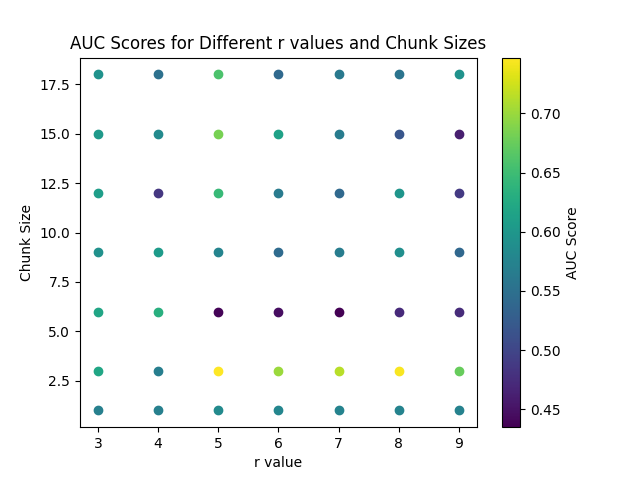
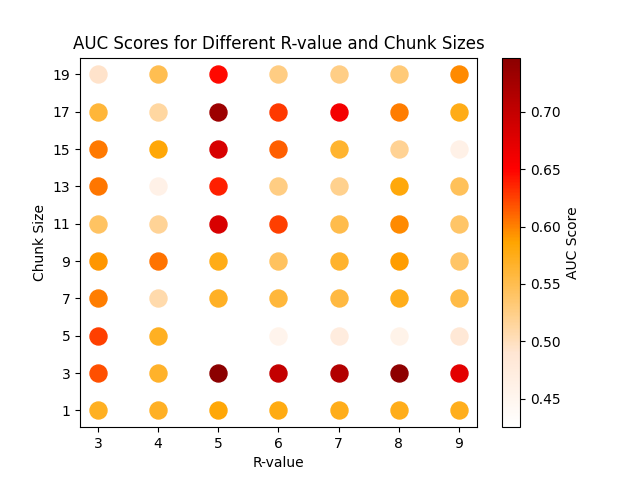
push

diff --git a/utils.py b/utils.py
@@ -52,7 +52,7 @@ def compute_roc_auc(labels, scores):
 def plot_roc(fpr, tpr, roc_auc, r_value, additional_title=""):
     plt.figure()
     plt.plot(
-        fpr, tpr, color="darkorange", lw=2, label=f"ROC curve (area = {roc_auc:.2f})"
+        fpr, tpr, color="darkorange", lw=2, label=f"ROC curve (AUC = {roc_auc:.2f})"
     )
     plt.plot([0, 1], [0, 1], color="navy", lw=2, linestyle="--")
     plt.xlim([0.0, 1.0])
@@ -60,7 +60,7 @@ def plot_roc(fpr, tpr, roc_auc, r_value, additional_title=""):
     plt.xlabel("False Positive Rate")
     plt.ylabel("True Positive Rate")
 
-    title = f"Receiver Operating Characteristic for r = {r_value} {additional_title}".strip()
+    title = f"ROC Curve with R-Value = {r_value} {additional_title}".strip()
     plt.title(title)
     plt.legend(loc="lower right")
 
@@ -111,11 +111,16 @@ def analyze_language_data():
     english_test_file = "english.test"
     tagalog_test_file = "tagalog.test"
     test_data, labels = load_test_data_and_labels(english_test_file, tagalog_test_file)
+    data_sets = []
 
     for r in range(1, 10):
         scores = get_scores_from_java_program(test_data, r, cache_name="language_analysis")
         fpr, tpr, roc_auc = compute_roc_auc(labels, scores)
         plot_roc(fpr, tpr, roc_auc, r)
+        data_sets.append((fpr, tpr, roc_auc, r, f"r={r}"))
+        
+    if data_sets:
+        generate_combined_roc_curves(data_sets, "Different R-values (1 to 9) on English vs. Tagalog")
 
 
 
@@ -155,14 +160,14 @@ def generate_combined_roc_curves(data_sets, additional_title=""):
     colors = ['blue', 'green', 'red', 'cyan', 'magenta', 'yellow', 'black', 'purple', 'orange', 'brown', 'pink', 'gray']
 
     for (fpr, tpr, roc_auc, r_value, title), color in zip(data_sets, colors):
-        plt.plot(fpr, tpr, color=color, lw=2, label=f'{title} (AUC = {roc_auc:.2f}, r = {r_value})')
+        plt.plot(fpr, tpr, color=color, lw=2, label=f'{title} (AUC = {roc_auc:.2f})')
 
     plt.plot([0, 1], [0, 1], color='navy', lw=2, linestyle='--', label='Chance')
     plt.xlim([0.0, 1.0])
     plt.ylim([0.0, 1.05])
     plt.xlabel('False Positive Rate')
     plt.ylabel('True Positive Rate')
-    plt.title('Combined ROC Curves' + additional_title)
+    plt.title('Combined ROC Curves ' + additional_title)
     plt.legend(loc='lower right', prop={'size': 10})
     plt.grid(True)
 
@@ -187,7 +192,7 @@ def analyze_language_comparison(english_test_file, other_language_test_file, lan
 
     fpr, tpr, roc_auc = compute_roc_auc(labels, scores)
     plot_roc(fpr, tpr, roc_auc, r, additional_title=f" (English vs {language_name})")
-    print(f"Language: {language_name}, r = {r}, AUC = {roc_auc:.2f}")
+    print(f"Language: {language_name}, R-value = {r}, AUC = {roc_auc:.2f}")
 
     return fpr, tpr, roc_auc
 

diff --git a/main.py b/main.py
@@ -16,7 +16,7 @@ import matplotlib.colors as mcolors
 import matplotlib.cm as cm
 
 def main():
-    # part1_ex1()
+    part1_ex1()
     part1_ex3(3)
     part2()
 
@@ -51,7 +51,7 @@ def part2():
     train_file = "syscalls/snd-unm/snd-unm.train"
     test_file = "syscalls/snd-unm/snd-unm.1.test"
     labels_file = "syscalls/snd-unm/snd-unm.1.labels"
-    combinations = [(r, chunk_size) for r in [3, 4, 5, 6, 7, 8, 9] for chunk_size in [1, 3, 6, 9, 12, 15, 18]]
+    combinations = [(r, chunk_size) for r in [3, 4, 5, 6, 7, 8, 9] for chunk_size in [1, 3, 5, 7, 9, 11, 13, 15, 17, 19]]
 
     auc_scores = []
 
@@ -68,23 +68,29 @@ def part2():
 
     # Plotting AUC scores
     plt.figure()
-    # Create a colormap
+
+    # Define a color map from green to bright red
+    cmap = mcolors.LinearSegmentedColormap.from_list(
+        "green_to_red", 
+        [(0, "white"), (0.2, "#ffe6d3"), (0.5, "orange"), (0.7, "red"), (1, "#8B0000")]
+    )
+
+    # Normalize the data
     norm = mcolors.Normalize(vmin=min(auc_scores)[0], vmax=max(auc_scores)[0])
-    cmap = cm.viridis
 
     for roc_auc, r_value, chunk_size in auc_scores:
         color = cmap(norm(roc_auc))
-        plt.scatter(r_value, chunk_size, color=color, label=f'AUC={roc_auc:.2f}')
+        plt.scatter(r_value, chunk_size, color=color, label=f'AUC={roc_auc:.2f}', s=150)  # s=100 for larger dots
 
-    plt.xlabel('r value')
+    plt.xlabel('R-value')
     plt.ylabel('Chunk Size')
-    plt.title('AUC Scores for Different r values and Chunk Sizes')
+    plt.title('AUC Scores for Different R-value and Chunk Sizes')
 
     # Adding a colorbar based on the colormap
     sm = cm.ScalarMappable(cmap=cmap, norm=norm)
     sm.set_array([])
     plt.colorbar(sm, label='AUC Score')
-
+    plt.yticks([1, 3, 5, 7, 9, 11, 13, 15, 17, 19])
     plt.savefig('roc_curves/auc_scores_plot.png')
     plt.close()
     print("Saved AUC scores plot as 'roc_curves/auc_scores_plot.png'")
@@ -93,7 +99,7 @@ def part2():
     data_sets = []
     for roc_auc, r_value, chunk_size in top_scores:
         fpr, tpr, roc_auc, _, _ = analyze_syscalls_data(train_file, test_file, labels_file, chunk_size, r_value)
-        data_sets.append((fpr, tpr, roc_auc, r_value, f"Chunk Size={chunk_size}, r={r_value}"))
+        data_sets.append((fpr, tpr, roc_auc, r_value, f"Chunk Size={chunk_size}, R-value={r_value}"))
 
     if data_sets:
         generate_combined_roc_curves(data_sets, "Top 4 Syscall Analysis")
